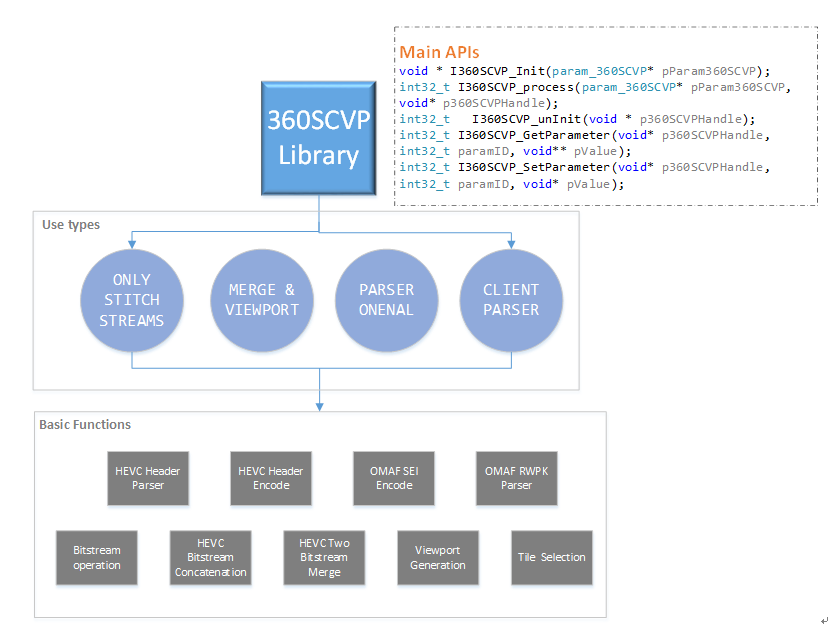
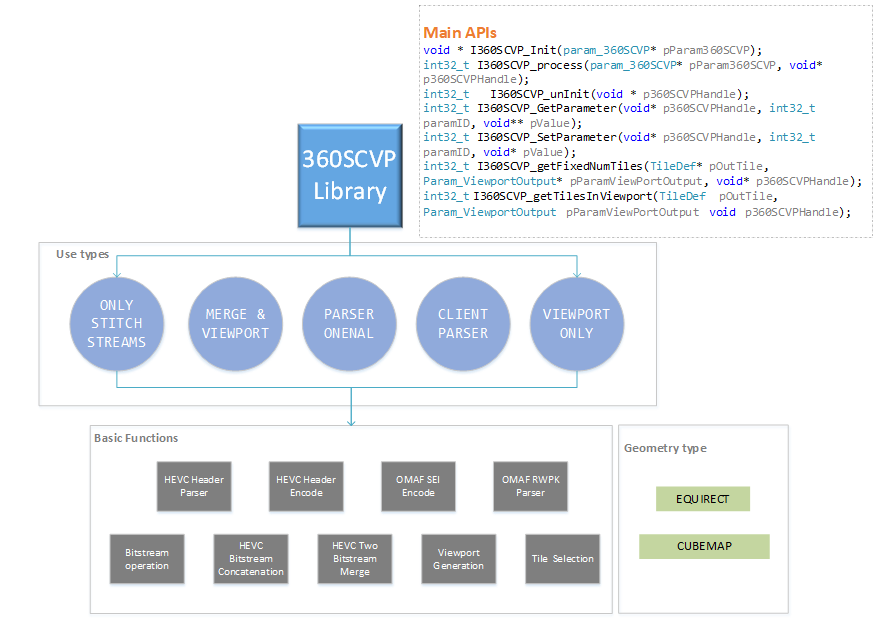
Update documents for 360scvp library.

diff --git a/src/doc/Immersive_Video_Delivery_360SCVP.md b/src/doc/Immersive_Video_Delivery_360SCVP.md
@@ -2,8 +2,10 @@
 
 ## Introduction
 360SCVP is a common library, which provides some basic functions for stream and view port. So, the 360SCVP is the abbreviation of stream concatenation and view port about 360 videos.
-360SCVP library is used in the server side (encoder and packing) and client side(player) of the OMAF compliance solution. Besides this, the library can be used in the 360 low-latency solution. So, 360SCVP is scalable, which can be easily extend to more functions according to users’ requirements.
+360SCVP library is used in the server side (encoder and packing) and client side(dashaccess and player) of the OMAF compliance solution. Besides this, the library can be used in the 360 low-latency solution. So, 360SCVP is scalable, which can be easily extend to more functions according to users’ requirements.
+For now, both equirect and cubemap geometry type are supported.
 The below diagram shows the four use types and the basic functions, which are supported currently. Whether the functions or the use types can be extended in the future.
+In the latest version, a fast viewport calculation algorithm is proposed by using a look-up table, which effectively reduced the calculation time and thus optimized the E2E latency.
 
 <IMG src="img/OMAF_Compliant-Video-Delivery-360scvp.png" height="450">       
 
@@ -13,6 +15,7 @@ The below table shows the five key data structures, which are param_360SCVP, par
 - E_MERGE_AND_VIEWPORT, when given the view port information and one frame bitstream, the library can calculate the viewport area in the frame and output the corresponding bitstream; additionally, if given two frame bitstreams e.g. one is high resolution and the other is low resolution, the library can calculate the viewport area and merge the corresponding two bitstreams into one bitstream.
 - E_PARSER_ONENAL, when given one NAL bitstream (SPS, PPS, SLICE, etc.), the library can parse the bitstream and return some key variables that users are interested in. If give some key variables, the library can generate its corresponding NAL bitstream.
 - E_PARSER_FOR_CLIENT, the library can parse some feedback information in client, currently the RWPK parser is supported.
+- E_VIEWPORT_ONLY, when getting viewport information from Omaf Dash Access library, it can calculate content coverage of FOV and generate related information of selected tiles.
 
 | **Fields** | **Description** |
 | --- | --- |
@@ -21,6 +24,21 @@ The below table shows the five key data structures, which are param_360SCVP, par
 | param_streamStitchInfo  |   The structure provides the input bitstream clips and some frame level parameters. It is input parameter when the use type is E_STREAM_STITCH_ONLY. For each bitstream clips, there is a structure param_oneStream_info to provide its information. |
 | param_oneStream_info |	  The structure provides the horizontal and vertical tile number, tile index, bitstream data buffer and data length in each input bitstream. It is input parameter when the use type is E_STREAM_STITCH_ONLY |
 | param_360SCVP 	      |   The structure is the main data structure, which provides all of the input and output parameters used in the library. So, it contains the above four data structures |
+| Param_VideoFPStruct 	  |   The structure describes the face property of the input geometry, including tile row/col number, width/height of each face, etc. |
+
+## Cubemap support
+- The following picture and face index table[<sup>1</sup>](#refer-anchor) show the coordinates definition for cubemap.
+
+    <IMG src="img/OMAF_Compliant-Video-Delivery-360scvp_cubemap.png" height="250">
+
+| **Face index** | **Face label** | **Notes** |
+| --- | --- | --- |
+| 0 | PX | Front  face with positive X axis value |
+| 1 | NX | Back   face with negative X axis value |
+| 2 | PY | Top    face with positive Y axis value |
+| 3 | NY | Bottom face with negative Y axis value |
+| 4 | PZ | Right  face with positive Z axis value |
+| 5 | NZ | Left   face with negative Z axis value |
 
 ## Call Sequences
 - The following diagram shows how to initialize the library:
@@ -30,3 +48,8 @@ The below table shows the five key data structures, which are param_360SCVP, par
 - After initialization, you can call library as following workflow:
 
     <IMG src="img/OMAF_Compliant-Video-Delivery-360scvp_CallSeq.png" height="450">
+
+<div id="refer-anchor"><div>
+
+## Reference
+[1] Yuwen He, Bharath Vishwanath, Xiaoyu Xiu, Yan Ye. AHG8: Algorithm description of InterDigital’s projection format conversion tool (PCT36i0), JVET-D0090, Chengdu, CN, 15–21 October 2016.
